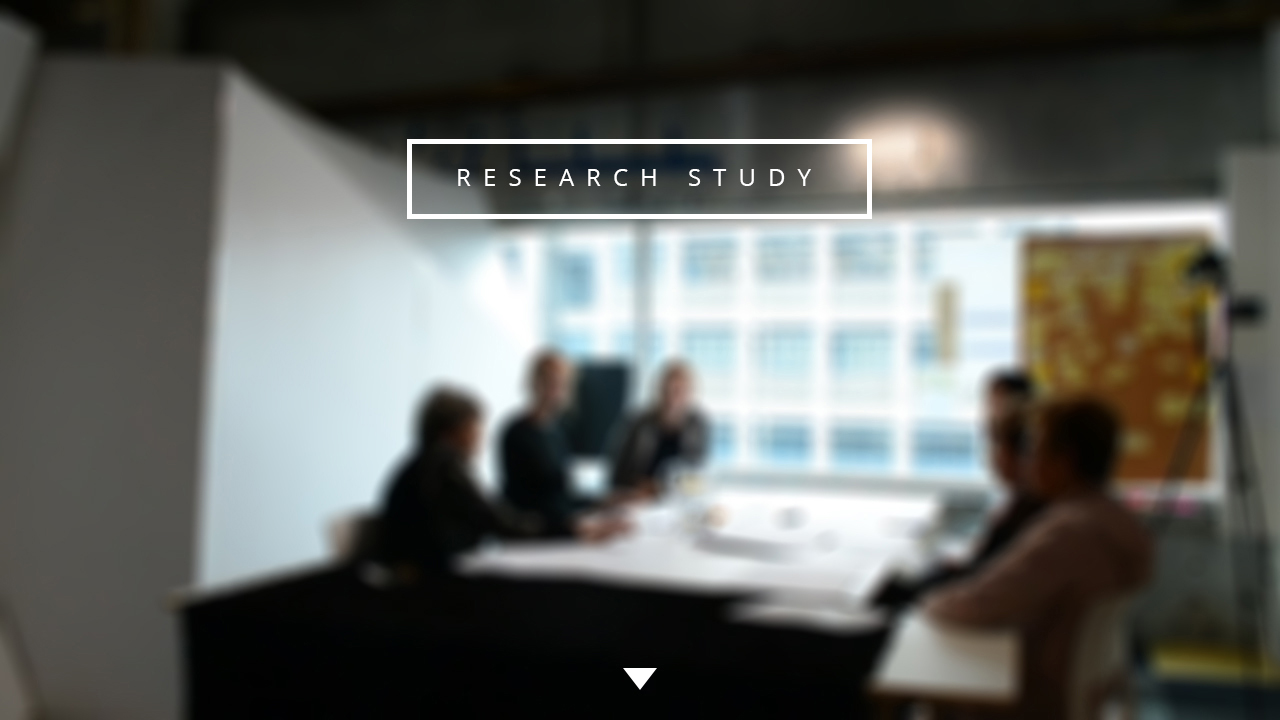
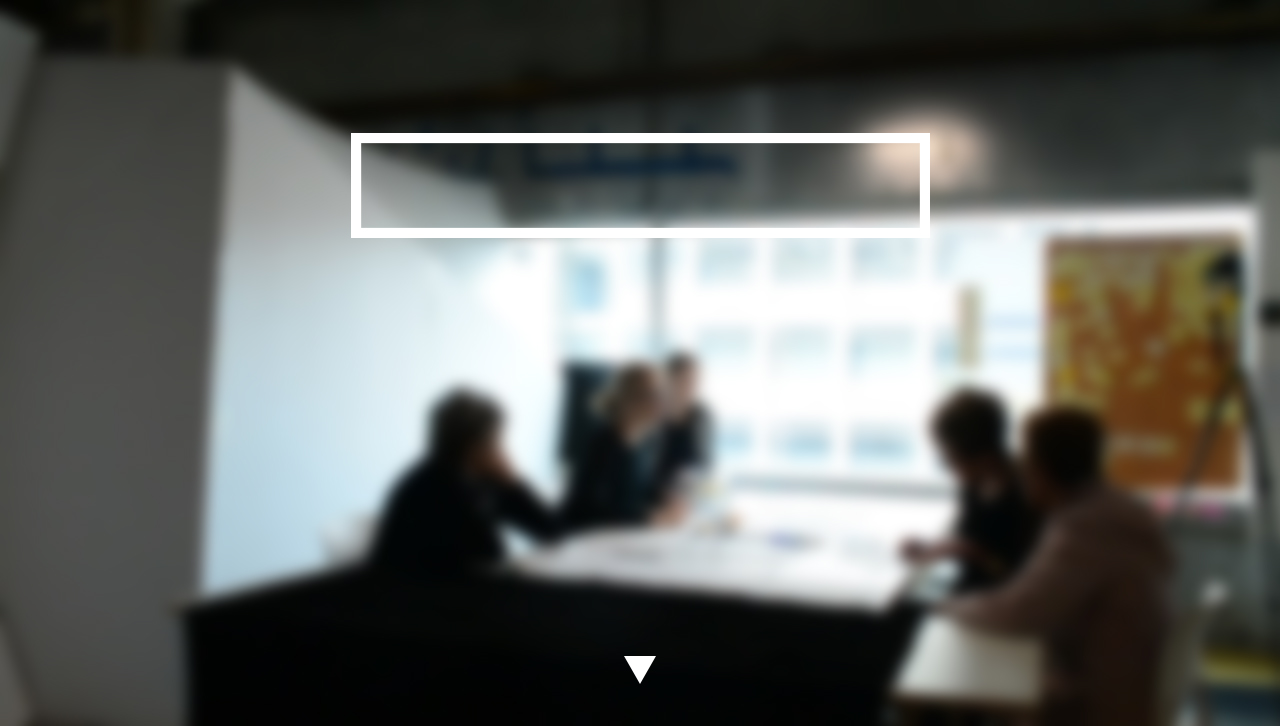
unit 3

diff --git a/unit_3/Index.html b/unit_3/Index.html
@@ -1,19 +1,15 @@
+<!DOCTYPE html>
 <html>
+
 <head>
 	<title>Research Study</title>
-	  <link rel="stylesheet" type="text/css" href="style.css">
+	<link rel="stylesheet" type="text/css" href="css/style.css">
 </head>
+
 <body>
-
-	<img src="">
-
-	<h1>Text</h1>
-	<p>Lorem ipsum dolor sit amet, consectetur adipisicing elit, sed do eiusmod
-	tempor incididunt ut labore et dolore magna aliqua. Ut enim ad minim veniam,
-	quis nostrud exercitation ullamco laboris nisi ut aliquip ex ea commodo
-	consequat. Duis aute irure dolor in reprehenderit in voluptate velit esse
-	cillum dolore eu fugiat nulla pariatur. Excepteur sint occaecat cupidatat non
-	proident, sunt in culpa qui officia deserunt mollit anim id est laborum.</p>
-<!-- COMMENT -->
+	<h1>Tracheostomy Study 2016</h1>
+	<p id="p1">A tracheostomy allows people with breathing difficulties to breathe through a tube inserted in their neck via a surgical incision, which bypasses a blocked upper airway. The introduction of a tracheostomy tube means standard functions such as breathing, eating and talking are altered. Patients must learn to adapt to these changes and regain control over their health and well-being. Nurses provide practical lessons in post-tracheostomy self-care; however, there is a large disconnect in information management between the practical lessons that the patients receive and the materials they are given as patient hand-outs. To address this problem, this practice-led research project explored the design opportunities in improving a tracheostomy patients’ educational journey. It explored the relationship between visual communication and educational content within a user-centred framework. Qualitative data from expert interviews were analysed to help create a cohesive interactive website for tracheostomy patients to learn from. This process helped generate a design prototype that was discussed during a workshop with tracheostomy patients. New insights developed from the workshop verified assumptions and provided a further understanding of participants’ personal experiences with a tracheostomy. These results supported the use of visual communication in the educational healthcare context to improve the experiences of tracheostomy patients.</p>
 </body>
+
+
 </html>

diff --git a/unit_3/css/style.css b/unit_3/css/style.css
@@ -1,0 +1,21 @@
+Body { 
+background-image: url("http://Work001.github.io/unit_3/blur1.jpg");
+ background-size: cover;
+ color: #fff;
+ font-family: Open Sans;
+ text-align: center;
+ padding-top: 150px;
+ 	
+}
+
+h1, p {
+	color:(000,000,000);
+	font-family: Open Sans;
+}
+
+#p1 {
+	font-size: 10px;
+	width: 550px;
+padding-left: 450px;
+padding-top: 10px;
+}
